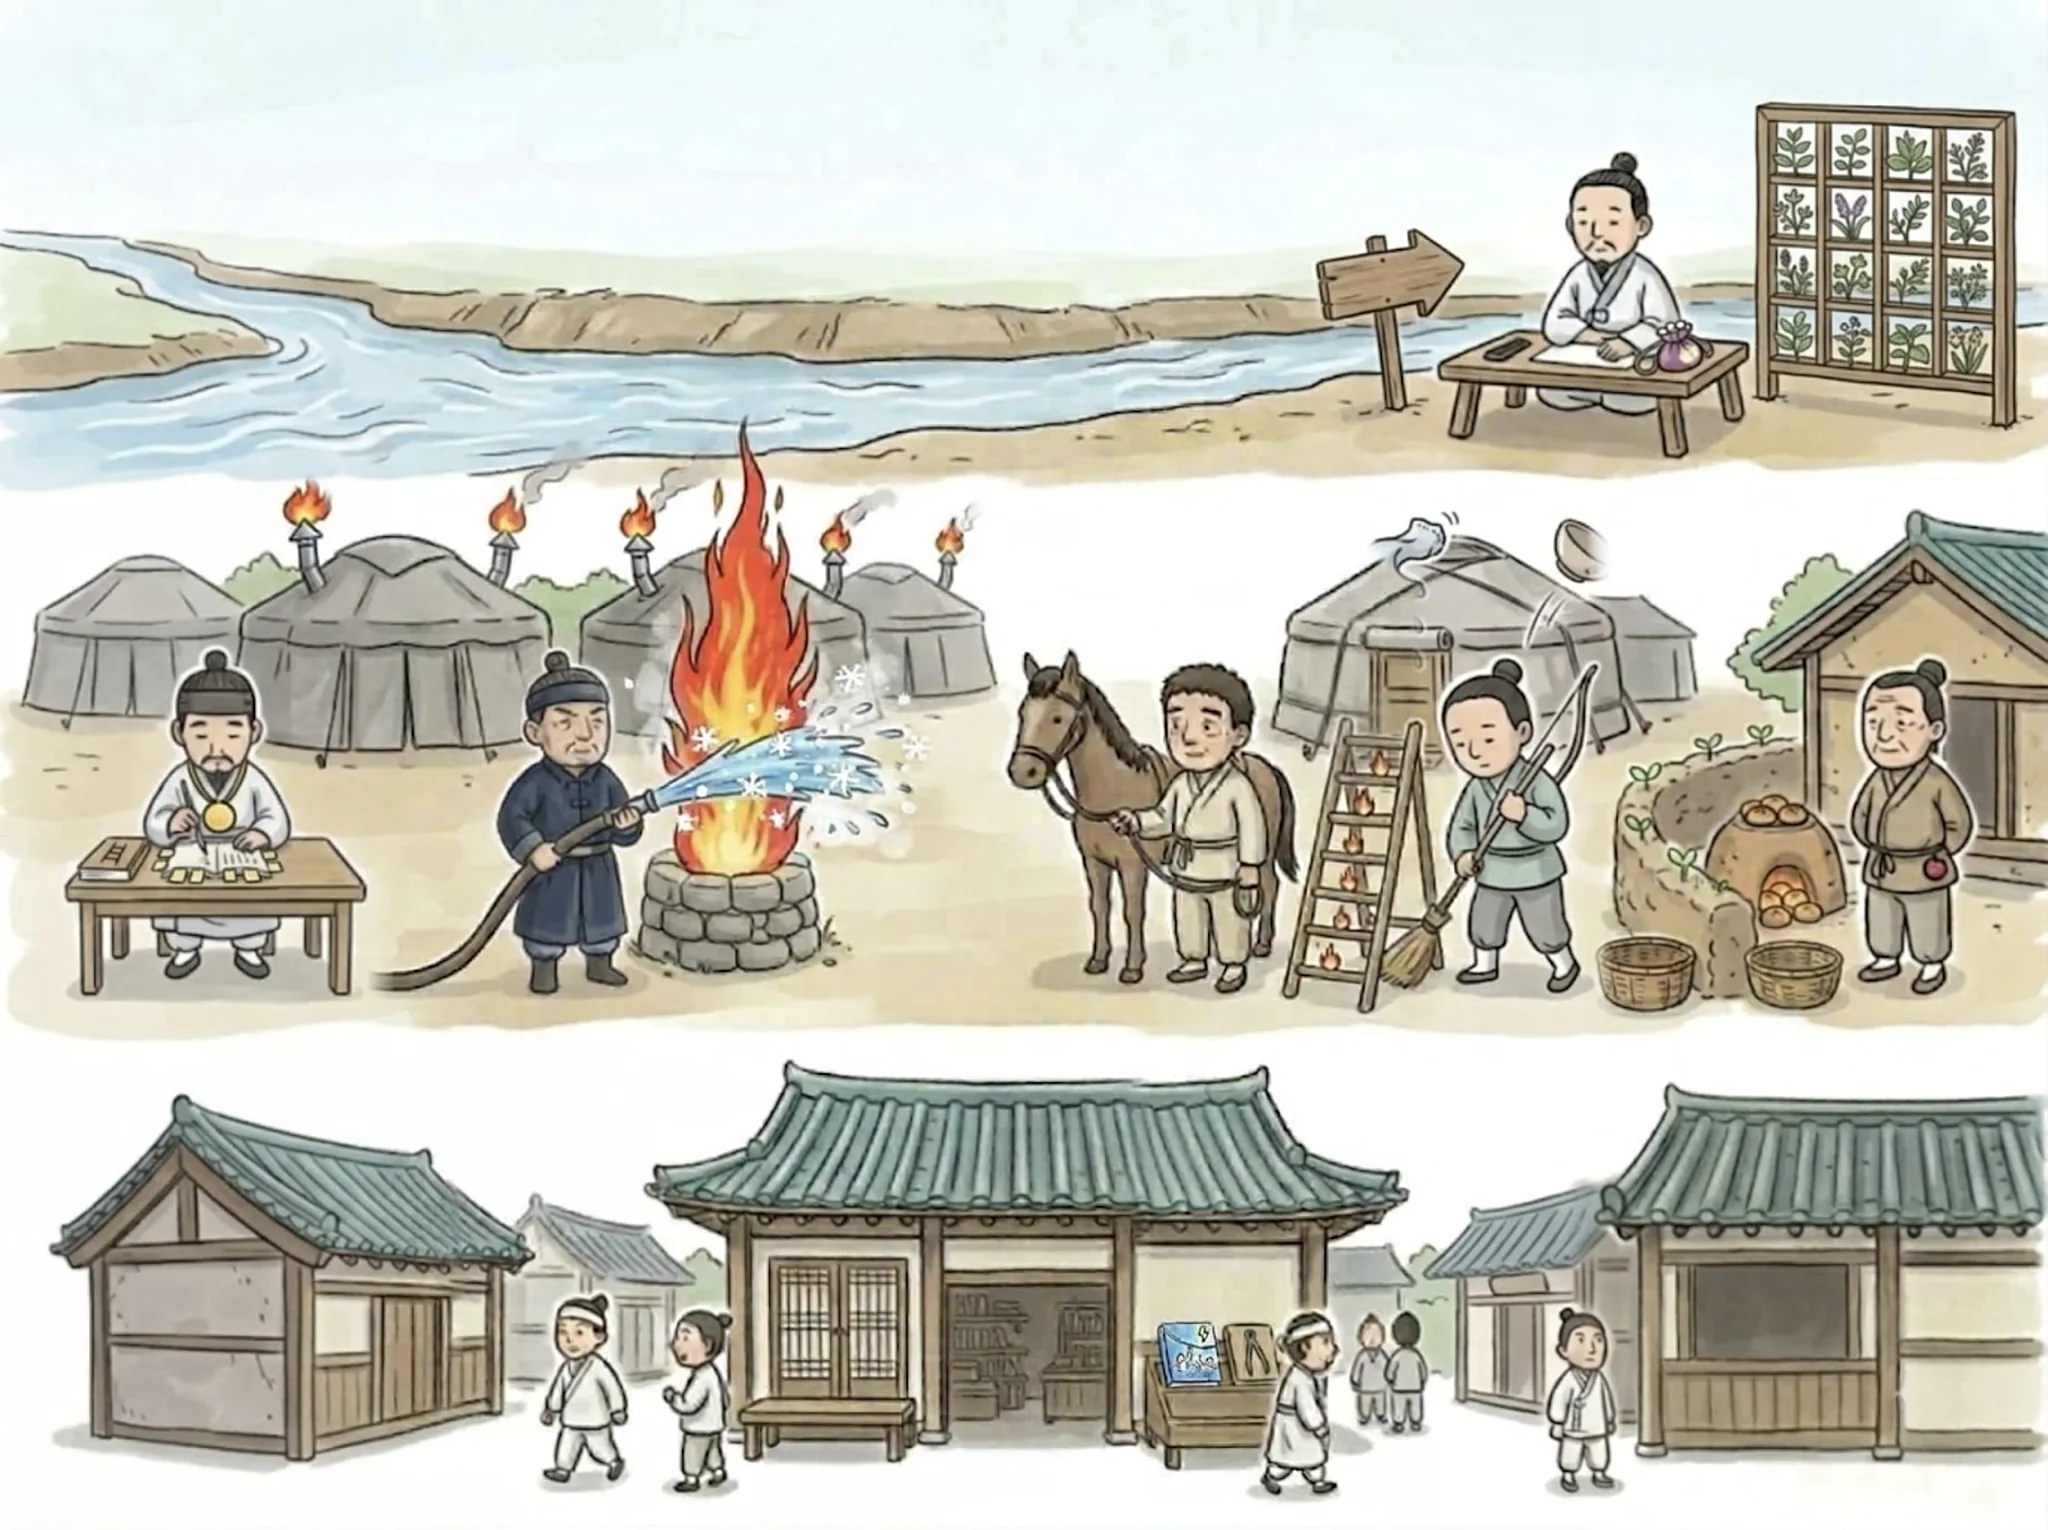
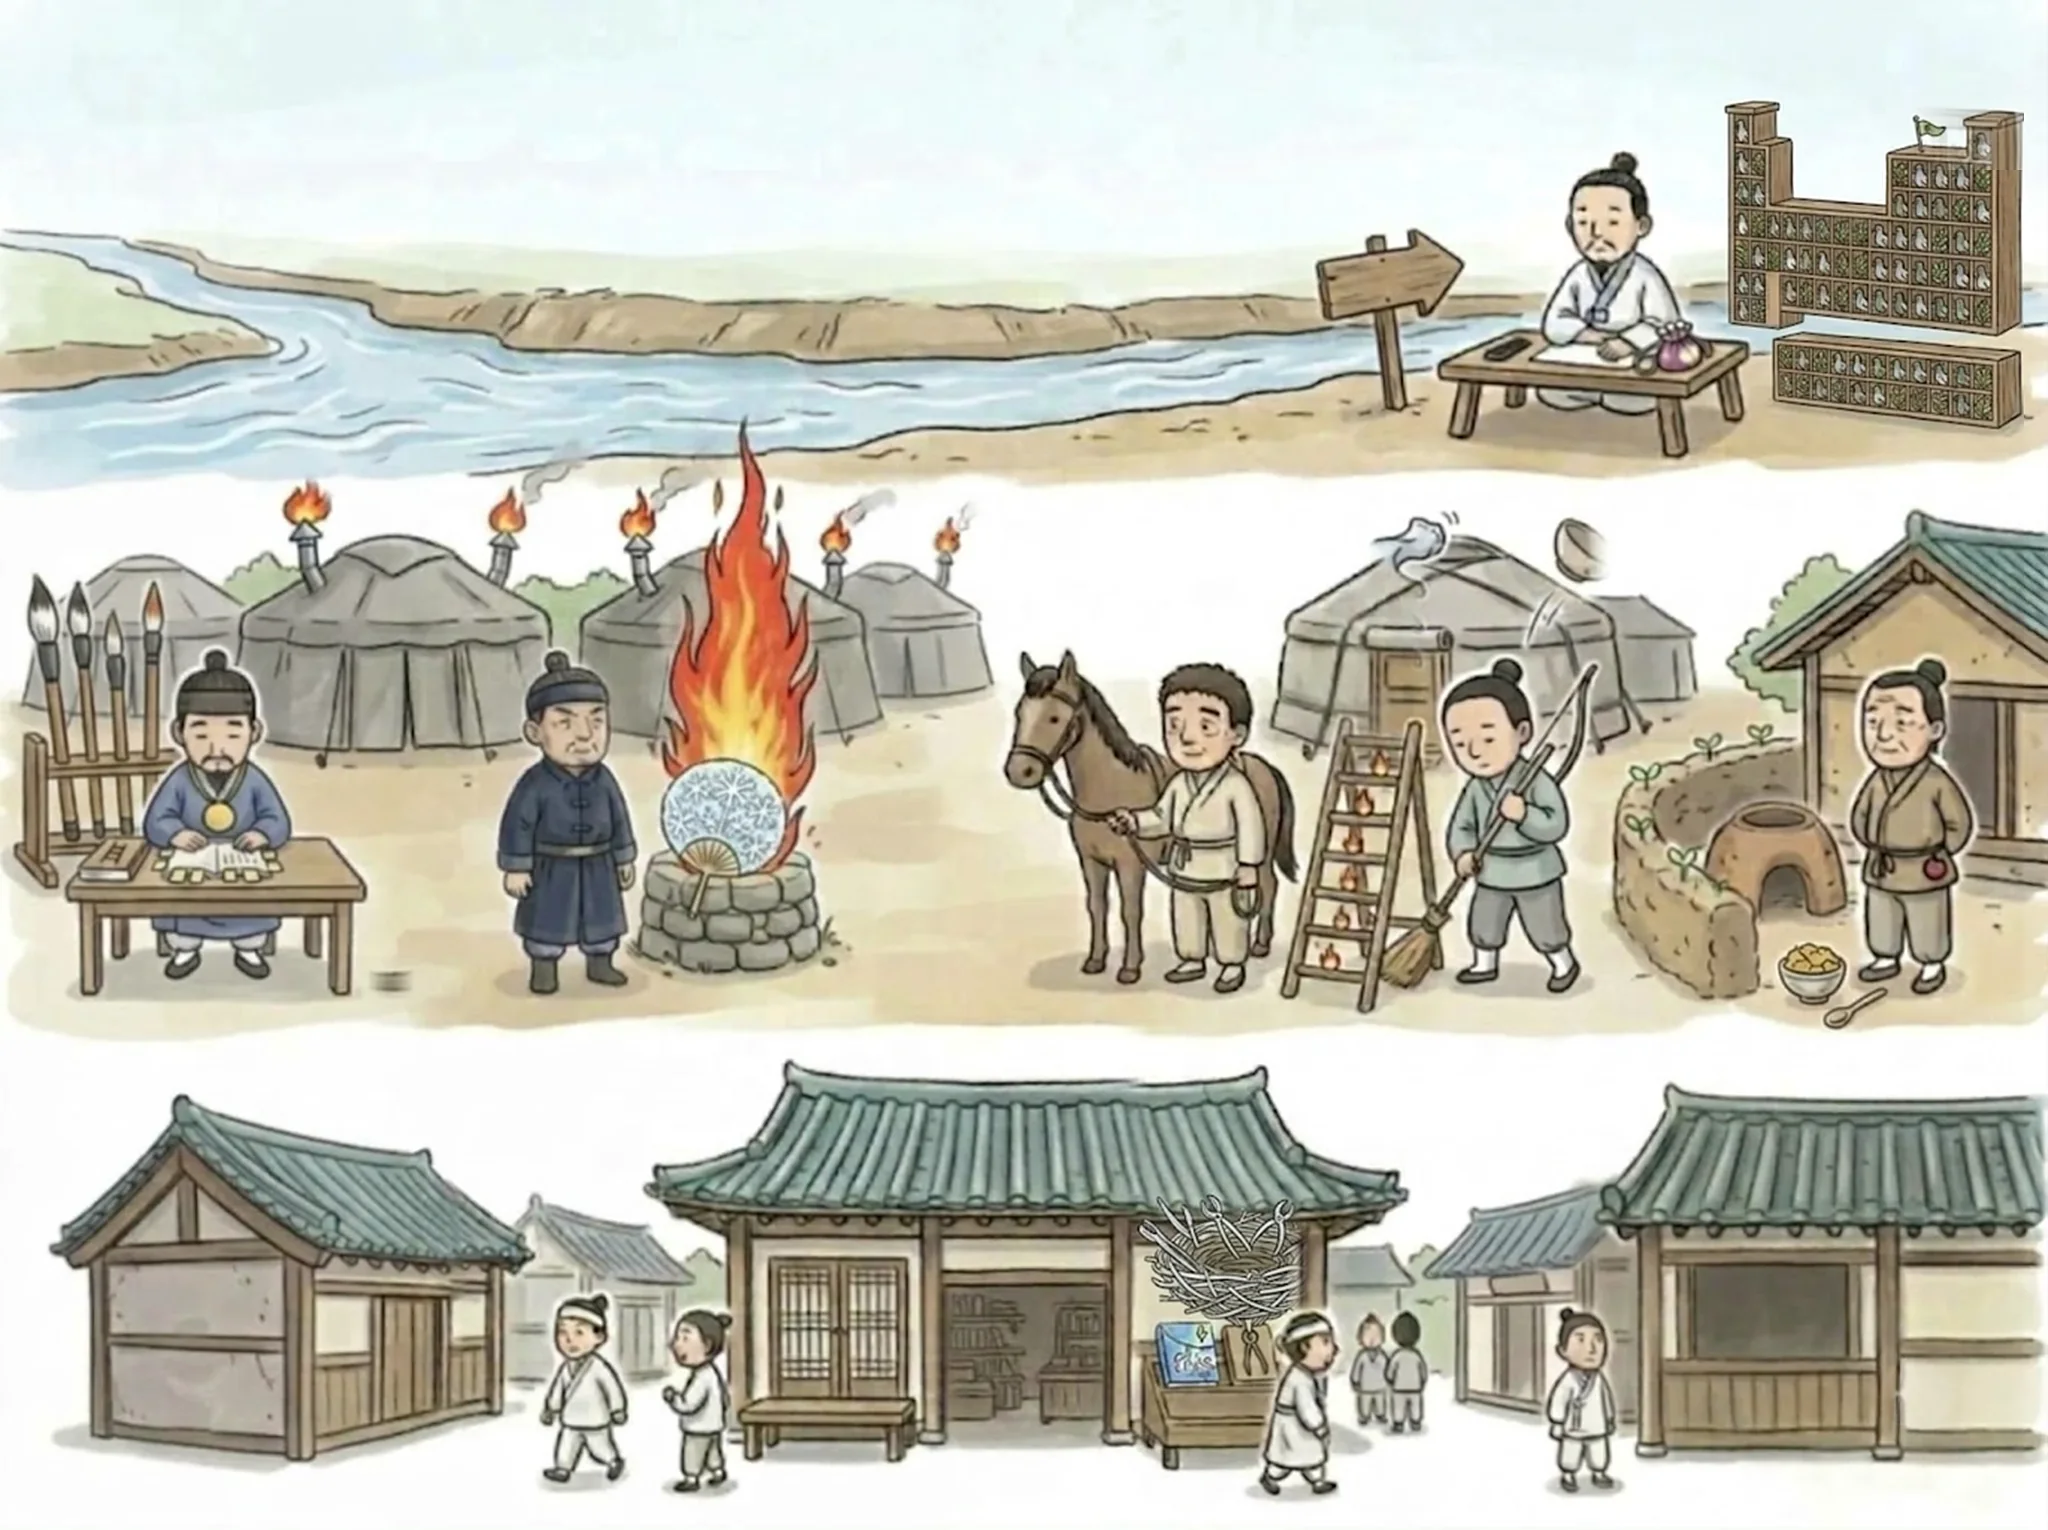
의학사 말판 ③줄 金(r3b) v2: 張元素 주기율표 비둘기장·撮要方 집게 둥지(S) · 成無己 무기걸이 붓·劉完素 눈송이 부채·李杲 흙밥(A) · 구역 판독 z56·z61·z79·z91
Claude-Session: https://claude.ai/code/session_01H8LcZK4WVLkMjSUBUXBg6J

diff --git a/src/coverage/blind16z/z79.md b/src/coverage/blind16z/z79.md
@@ -1,0 +1,27 @@
+# z79 판독 (③줄 宋·金·元 구간, 세로 띠)
+
+## 1단계 — 생판 (사전 열기 전)
+
+**① 시대**: 중국 **金·元**(金元四大家 구간) / 한국 **高麗** — 확신도 85%. 근거: 가운데 길 뒤의 몽골식 게르(북방 유목 왕조 = 金·元), 거리의 기와집은 조선 이전 고려 거리로 봄.
+
+**② 레인별 묶음**
+- **강(본초)** — 강가 서안에서 붓을 든 학자. 탁자 위 진주 알이 비어져 나온 보라 주머니 = 珍珠囊, 뒤의 「주기율표」 모양 약장 = 元素 → **張元素《珍珠囊》**. 약장 칸마다 약초+흰 비둘기(전령), 꼭대기 깃발, 왼쪽 화살표 이정표 = 약을 경락으로 「끌고 가는」 → **引經報使·藥物歸經** 학설. (易水學派 개조)
+- **길 ①(좌)** — 곱슬머리 남자+말(왼쪽 가장자리 일부 잘림) 옆 사다리, 가로대 6칸마다 불꽃 = 六氣皆從火化 → **劉完素** 火熱論·寒涼派(추정, 사람 자체는 이웃 띠 몫일 수 있음).
+- **길 ②(중)** — 활을 멘 비질꾼: 활 = 弓+長 = **張**, 빗자루로 쓸어냄 = 攻邪. 게르 지붕에서 김이 솟고(汗) 사발이 위로 튀고(吐) 빗자루가 아래로 쓺(下) → **張從正(子和)** 攻下派·汗吐下 三法(《儒門事親》).
+- **길 ③(우)** — 노인이 허리춤에 붉은 자두(李), 곁에 흙담(垣)에 새싹이 위로 돋고(升陽), 흙 아궁이(土)와 노란 곡식 그릇·숟가락(脾胃·飮食) → **李杲(東垣)** 補土派 《脾胃論》, 升陽益氣(補中益氣).
+- **거리(한국)** — 고려풍 기와 거리. 왼쪽 노점에 물결무늬 파란 간판과 「八/人」 모양 나무패, 머리띠 맨 남자. 뜻이 분명히 서지 않음 → 고려 의료기관(**惠民局**? 藥局?) 후보, 확신 낮음.
+
+**③ 잔결**: 거리 레인은 말을 하는 묶음이 사실상 없음(빈 거리처럼 보임). 노점 간판(물결·「八」자 패)과 머리띠 남자의 뜻 불명. 곱슬머리+말 인물은 왼쪽 이웃 띠와 이어 붙은 듯. 오른쪽 아래 반짝이 별 = 생성 워터마크. 게르 오른쪽에 회색 건물이 하나 더 겹쳐 있음(이어 붙임 흔적 가능).
+
+## 2단계 — 계통 (blind6_사전요약 어휘로 다시 읽기)
+
+**① 시대**: 중국 **金·元** / 한국 **高麗** — 88%. 사전의 성씨 기호(張=멘 활, 李=허리춤 자두)가 「무대가 어느 張·李인지 정한다」고 했고, 게르 무대에서는 金元 쪽으로 갈린다(明 서점 아님). 확신이 조금 오름.
+
+**② 레인별 재판독**
+- **강(본초)** — 사전에 「元素」·「珍珠囊」 기호는 없다. 진주가 비어져 나온 보라 주머니는 收(굵은 삼베 자루)와 재질·내용이 달라 收로 읽지 않는다 → 그대로 **張元素《珍珠囊》**. 단, 이 사람에게는 張 표지(멘 활)가 없어서 성은 「元素」(주기율표) 하나가 지고 있다. 비둘기집(pigeonhole) 칸마다 약초를 나눠 넣은 것 = 약마다 제 경락 칸이 있다 → **藥物歸經**. 깃발+오른쪽 화살표 이정표 = **引經報使**. 확신 75%.
+- **길 ①(좌)** — 고삐를 쥔 남자+말 = 사전의 **馬**(성 馬). 金元 길에서 馬씨 표제어는 마땅치 않다(굳이 고르면 **馬丹陽** 天星十二穴, 약함). 말 앞부분이 왼쪽 밖으로 잘려 이웃 띠 몫으로 본다. 사다리의 불꽃 6 = 熱×6 → 六氣皆從火化 → **劉完素** 火熱論·寒涼派. 다만 劉를 가리키는 기호가 없어 이웃 띠에서 넘어온 소품일 수 있다.
+- **길 ②(중)** — 멘 긴 활 = **張**(사전 확정), 짚 빗자루 = **瀉**. 게르 꼭대기의 흩날리는 흰 김·천(發散/溫 → 汗), 곧게 튀어 오르는 사발(上 → 吐), 빗자루(瀉 → 下) → **張從正** 攻邪派(攻下派), 汗吐下 三法. 1단계보다 확실해짐(85%).
+- **길 ③(우)** — 허리춤 자두 = **李**(사전 확정) → **李杲**. 노란 곡식을 가득 담은 그릇 = 補-b(채워 주는 것이 노란 곡식 = 脾土) → **補土派**. 흙담 = 垣 → 東垣(소리 그대로 말장난). 흙담 위로 곧게 돋는 새싹 = 升陽. 담 안쪽(內)에 놓인 흙 아궁이(土) → 「內傷脾胃」·《**內外傷辨惑論**》까지 읽힐 여지 있음. 대표 의서는 《**脾胃論**》. 확신 85%.
+- **거리(고려)** — 사전 기관 기호(惠=여러 손이 받드는 빈 사발, 濟=밧줄, 太=큰 갓, 藥=약연, 典藥=약봉지 다발, 寺=절)는 하나도 보이지 않는다. 노점의 파란 간판은 물결무늬가 아니라 뭉개진 가짜 글자이고, 三峯(같은 높이 봉우리 셋)도 없어서 鄭道傳 대입은 기각한다. 머리띠 남자와 「八」자 나무패도 사전에 없다. → 표제어 **없음**(빈 거리이거나 이웃 띠 소품).
+
+**③ 잔결**: 거리 레인에 사실을 나르는 묶음이 없다. 노점 간판은 가짜 글자, 「八」 모양 패는 뜻 불명. 馬 인물과 불꽃 사다리는 왼쪽 경계에 걸려 있다(이어 붙임). 게르 뒤에 회색 집이 겹친다. 오른쪽 아래에 생성 워터마크(반짝이 별)가 있다. 張元素에게만 張 기호(활)가 빠져 있어 사전과 어긋난다.

diff --git a/src/coverage/blind16z/z91.md b/src/coverage/blind16z/z91.md
@@ -1,0 +1,28 @@
+# z91 판독 (③줄 宋·金·元 세로 띠)
+
+## 1단계 — 생판 (사전 없이)
+
+**① 시대**: 흙길에 몽골 게르(천막)가 줄지어 있음 → **金元(元 쪽)** / 앞 거리는 기와 처마의 **高麗**. 확신 85%.
+
+**② 레인별 묶음**
+- 뒤 강(본초): 강둑에 오른쪽을 가리키는 나무 화살 표지판 + 오른쪽 가장자리 낮은 탁자에서 종이에 쓰는 선비(탁자 위 검은 막대 = 먹?). 선비는 반쯤 잘려 이웃 띠 몫일 수 있음. 표지판 = 앞으로 「늘여 잇다(衍)」로 보아 **本草衍義**(寇宗奭), 또는 宋 본초 계보 정리자 **證類本草**(唐慎微). 확신 낮음(30%).
+- 흙길 왼쪽 끝(잘림): 돌우물 위로 치솟는 불길에 찬물·눈송이를 끼얹음 → 火熱을 寒涼으로 끈다 = **劉完素** 寒涼派(火熱論). 가장자리라 이웃 띠 몫일 가능성.
+- 흙길 가운데: 말 고삐를 잡고 선 남자 → 고삐로 「이끈다(引)」 = 引經報使 → **張元素**(易水學派, 藥物歸經·臟腑辨證). 곁의 사다리, 칸마다 작은 불꽃 → 약이 오르내림(升降浮沈) 또는 칸칸이 들어가는 歸經. 50%.
+- 흙길 오른쪽: 활(弓 → **張**)을 메고 빗자루로 땅을 쓰는 사람 → 邪를 쓸어낸다 = **張從正(子和)** 攻邪(攻下)派. 게르 꼭대기로 빠져나가는 김(=汗), 뒤집혀 날아가는 사발(=吐), 쓸어내림(=下) → 汗吐下 三法. 게르 문 위 말린 두루마리 = 『儒門事親』? 75%.
+- 앞 거리 왼쪽: 기와집, 안에 약장·약단지 선반, 앞에 평상 → 高麗 의료기관(**太醫監/惠民局** 계열 약국). 표제어 특정 불가(25%).
+- 앞 거리 가운데: 노점 위에 집게(핀셋·펜치)로 엮은 새둥지, 아래 집게 하나 매달림, 앞에 파란 책 → 집게 = 「집을 撮」 → **御醫撮要方**(崔宗峻). 둥지 = 모아 엮음(集)이면 鄕藥集成方이나 조선이라 시대 불일치. 머리띠 두른 행인 = 救急 → 鄕藥救急方? 35%.
+
+**③ 잔결**: 파란 책 표지 글자가 뭉개진 가짜 문자(판독 불가); 탁자 위 검은 막대 정체 불명; 오른쪽 끝 자루·바구니, 왼쪽 끝 불+물은 잘린 이웃 몫; 뒷모습 두 행인은 장식인지 불명; 사다리가 말 남자 몫인지 빗자루 남자 몫인지 경계 모호.
+
+## 2단계 — 계통 (blind6 사전 적용)
+
+**① 시대**: 게르 = 元, 기와 거리 = 高麗(13세기 高宗 무렵). **金元 / 高麗** 85% — 그대로.
+
+**② 레인별 재판독**
+- 흙길 가운데: 사전 「馬 = 사람 곁에 고삐로 매인 말 한 마리 — 성 馬, 어느 馬인지는 무대」가 정확히 들어맞음. 1단계의 「고삐=引經 → 張元素」는 철회. 金元 무대의 馬 → **馬宗素**(劉完素 문인, 河間學派) 1순위, **馬丹陽**(天星十二穴) 2순위. 곁 사다리를 다시 세어 보니 칸마다 불꽃(熱) 정확히 **여섯** → 六氣皆從火化 = 河間 火熱論 계승. 왼쪽 끝 「불 + 눈송이 섞인 찬물」(熱·寒/淸)이 **劉完素** 寒涼派라면, 스승 바로 오른쪽에 제자 馬가 오는 순서도 맞음. 45%.
+- 흙길 오른쪽: 「張 = 등에 멘 긴 활」 확정 + 「瀉 = 짚 빗자루」 → 張 + 瀉 = **張從正(子和)** 攻邪派(攻下派). 金元 무대라 明의 張과 갈림. 게르 꼭대기에서 꼬리 달린 혼 같은 김이 쫓겨 날아가고 사발이 뒤집혀 튐(散) → 邪를 몰아냄(邪去正安) / 汗·吐·下 三法. 사다리 6칸을 이쪽에 붙이면 『儒門事親』 「六門三法」도 되나, 여섯이 모두 불이라 六門(風寒暑濕燥火)보다 火化 쪽이 낫다. 80%.
+- 앞 거리 가운데: 사전에 없음 → 한국어 소리 말장난으로 풀림. 새둥지 = **새집 = 新集**, 집게 = 「집을 **撮**」 → 『**新集御醫撮要方**』(高麗 高宗 13년 1226, 崔宗峻). 파란 책 = 그 방서. 60%.
+- 앞 거리 왼쪽 기와집 약방: 寺(절)·惠(빈 사발)·太(큰 갓)·典藥(약봉지 다발) 어느 기호도 없음 → 노점의 배경으로 보며 표제어 없음.
+- 뒤 강: 표지판·필기 선비에 맞는 사전 기호(王 왕관 등) 없음. 선비는 오른쪽에서 잘림 → 이웃 띠 몫. 표지판은 강줄기 이음 표시로 봄(**本草衍義**? 20%).
+
+**③ 잔결**: 강가 화살 표지판·탁자 위 검은 막대 뜻 불명; 파란 책 표지 가짜 문자; 머리띠 두른 행인·뒷모습 두 행인·오른쪽 끝 자루와 바구니는 사전 기호 없음(장식 또는 이웃 몫); 사다리가 馬 몫인지 張 몫인지 경계가 모호(빗자루가 사다리에 기대어 이어 붙인 듯).
